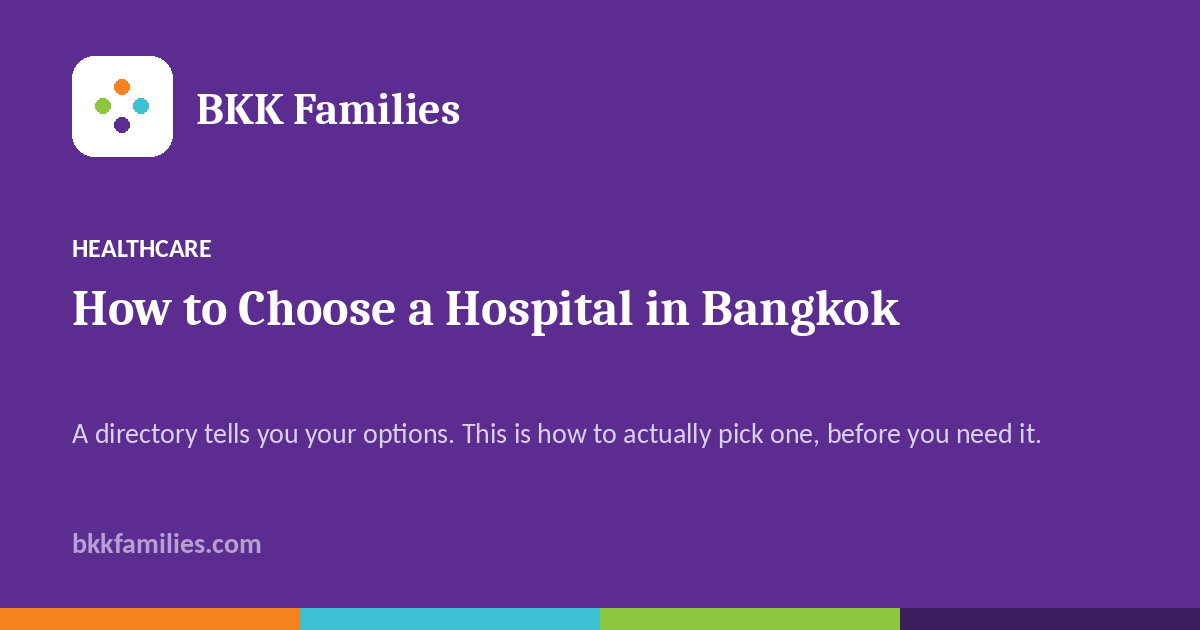
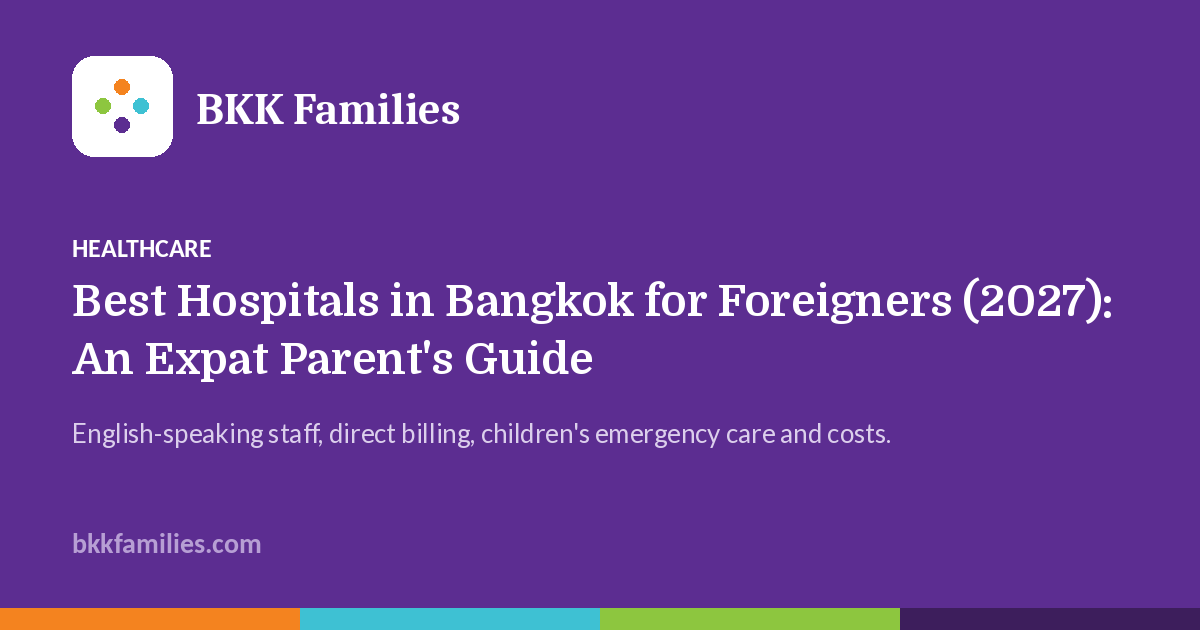
Hospitals article retargeted at "best hospital in Bangkok for foreigners"
New title (2027 expat parent's guide), meta description, excerpt, keywords
and updated date. New sections on English-speaking staff and international
desks, direct billing, 24-hour paediatric emergency care and published
costs, all from the site's own hospital, insurance and dental data. Hospital
list expanded to 12, FAQ rewritten for the target searches, share card
regenerated with the new title. Linked from the healthcare hub (Start here),
every hospital page, the hospitals directory and the paediatrics page.

Claude-Session: https://claude.ai/code/session_01AMgL5yfKE3jiVjviK9vpyY

Changed region(s): [[0.0617, 0.4524, 0.925, 0.6032], [0.0617, 0.6635, 0.8633, 0.7238]]

diff --git a/src/lib/articles.ts b/src/lib/articles.ts
@@ -1027,68 +1027,107 @@ export const ARTICLES: Article[] = [
   },
   {
     slug: "top-5-hospitals-in-bangkok",
-    title: "How to Choose a Hospital in Bangkok When You Have Just Arrived",
+    title: "Best Hospitals in Bangkok for Foreigners (2027): An Expat Parent's Guide",
     category: "Healthcare",
     date: "2026-09-14",
+    updated: "2026-11-09",
     metaDescription:
-      "A directory tells you what your options are. This answers the harder question: how do you actually pick one, which hospitals families name most, and the twenty minutes of homework to do before you need any of it.",
-    keywords: ["choosing a hospital Bangkok", "best hospital Bangkok families", "Bangkok hospital expat", "paediatric hospital Bangkok", "Samitivej Bumrungrad BNH comparison", "Bangkok hospital direct billing", "children's emergency Bangkok", "new to Bangkok healthcare"],
+      "Bangkok's best hospitals for foreigners, compared for expat families: English-speaking staff, direct billing, 24-hour children's emergency care and prices.",
+    keywords: ["best hospital in Bangkok for foreigners", "best hospital in Bangkok", "top hospitals in Bangkok", "top 10 hospitals in Bangkok", "English speaking hospital Bangkok", "Bangkok hospital direct billing", "paediatric emergency Bangkok", "Bangkok hospital costs", "international hospital Bangkok expat", "Samitivej Bumrungrad comparison"],
     excerpt:
-      "The private hospital system here is genuinely excellent, which is a lovely problem to have and no help at all when you are three weeks off the plane and trying to pick one. Here is how to narrow it down, and the homework worth doing before you need any of it.",
+      "The best hospitals in Bangkok for foreigners, and what each one is actually good for. English-speaking staff, insurance direct billing, 24-hour children's emergency care, published prices, and how to choose before you need one.",
     headings: [
-      { beforeParagraph: 2, text: "You are choosing two things, not one" },
-      { beforeParagraph: 6, text: "Three questions that narrow it fast" },
-      { beforeParagraph: 11, text: "The five families name most, and what each is for" },
-      { beforeParagraph: 18, text: "The emergency question people get wrong" },
-      { beforeParagraph: 22, text: "Twenty minutes of homework, now rather than later" },
+      { beforeParagraph: 2, text: "The best hospitals in Bangkok for foreigners, and what each is for" },
+      { beforeParagraph: 14, text: "English-speaking staff and international patient desks" },
+      { beforeParagraph: 17, text: "Insurance and direct billing" },
+      { beforeParagraph: 20, text: "24-hour paediatric emergency care" },
+      { beforeParagraph: 24, text: "What hospitals in Bangkok cost" },
+      { beforeParagraph: 29, text: "How to choose: two hospitals and three questions" },
+      { beforeParagraph: 37, text: "Twenty minutes of homework, now rather than later" },
     ],
     relatedFacilities: [
       { name: "Samitivej Sukhumvit Hospital", slug: "samitivej-sukhumvit-hospital" },
       { name: "Bumrungrad International Hospital", slug: "bumrungrad-international-hospital" },
-      { name: "BNH Hospital", slug: "bnh-hospital" },
       { name: "Bangkok Hospital (Soi Soonvijai)", slug: "bangkok-hospital-headquarters" },
-      { name: "Praram 9 Hospital", slug: "praram-9-hospital" },
+      { name: "BNH Hospital", slug: "bnh-hospital" },
+      { name: "MedPark Hospital", slug: "medpark-hospital" },
       { name: "Samitivej International Children's Hospital", slug: "samitivej-international-childrens-hospital" },
+      { name: "Vejthani Hospital", slug: "vejthani-hospital" },
+      { name: "Praram 9 Hospital", slug: "praram-9-hospital" },
+      { name: "Vibhavadi Hospital", slug: "vibhavadi-hospital" },
+      { name: "Phyathai 2 Hospital", slug: "phyathai-2-hospital" },
       { name: "Saint Louis Hospital", slug: "saint-louis-hospital" },
       { name: "Camillian Hospital", slug: "camillian-hospital" },
+      { name: "Queen Sirikit National Institute of Child Health", slug: "queen-sirikit-national-institute-of-child-health" },
     ],
     body: [
-      "Bangkok's private hospitals are one of the genuinely good reasons to raise a family here. Several are internationally accredited, English-speaking paediatric care is normal rather than a premium extra, and the whole thing costs a fraction of private care in most of the countries families arrive from.",
-      "Which is a lovely problem to have, and absolutely no help when you are three weeks off the plane with a feverish child and a list of names that all sound equally plausible. Our [hospital directory](/healthcare/hospitals) will tell you what your options are. This is about how to actually pick between them.",
+      "The short answer first. For most foreign families, the best hospitals in Bangkok are [Samitivej Sukhumvit](/healthcare/hospitals/samitivej-sukhumvit-hospital), [Bumrungrad](/healthcare/hospitals/bumrungrad-international-hospital) and [Bangkok Hospital](/healthcare/hospitals/bangkok-hospital-headquarters), with [BNH](/healthcare/hospitals/bnh-hospital) and [MedPark](/healthcare/hospitals/medpark-hospital) close behind, and [Samitivej's children's hospital](/healthcare/hospitals/samitivej-international-childrens-hospital) at Srinakarin for a seriously ill child. All six offer care in English and settle directly with most international insurers. Which one is best for your family comes down to where you live, what your insurance covers and how old your children are.",
+      "Bangkok's private hospitals are one of the genuinely good reasons to raise a family here. Several are internationally accredited, English-speaking paediatric care is normal rather than a premium extra, and the whole thing costs a fraction of private care in most of the countries families arrive from. That is a lovely problem to have, and no help at all when you are three weeks off the plane with a feverish child and a list of names that all sound equally plausible. Our [hospital directory](/healthcare/hospitals) tells you what your options are. This guide is about how to choose between them.",
+      "These are the hospitals that come up most often in our community, with what each is actually good for rather than what its brochure says. The first seven operate at international hospital level. The rest are good Thai private hospitals that cost noticeably less.",
+      "[Samitivej Sukhumvit](/healthcare/hospitals/samitivej-sukhumvit-hospital) is the default for the international school corridor, and the hospital named most often in our Facebook group. It sits in the middle of where expat families live, it is JCI accredited, and it has built its reputation on children's and women's health, with paediatricians who see children in English, Japanese and Arabic and walk-in appointments that usually work. Convenience is the product and it is priced accordingly, though it still undercuts Bumrungrad for routine visits.",
+      "[Bumrungrad](/healthcare/hospitals/bumrungrad-international-hospital) is the one everyone has heard of and the most practised in the country at handling foreign patients: interpreters in dozens of languages, a dedicated international floor, and machinery that simply works. It is also the most expensive of the mainstream options, and families who use it for everything tend to notice how much a routine paediatric visit costs compared to the alternatives.",
+      "[Bangkok Hospital](/healthcare/hospitals/bangkok-hospital-headquarters) on Soi Soonvijai is the flagship of the largest private hospital group in Thailand and a genuine full-service hospital, JCI accredited, with combined paediatric and neonatal intensive care running around the clock plus ground and air emergency transport. The campus is large and first visits involve more walking than you expect.",
+      "[BNH](/healthcare/hospitals/bnh-hospital) is small, personal and the oldest private hospital in Thailand. It is best known among expat families for maternity, where the draw is continuity, the same obstetrician throughout. For families in Silom and Sathorn it is also just the nearest good option. Being small cuts both ways: the experience is better, the range of paediatric sub-specialists is narrower.",
+      "[MedPark](/healthcare/hospitals/medpark-hospital) in Khlong Toei is the newest of the big private hospitals and the most open about money, publishing its delivery packages as a plain price list. The building is new enough that everything still works.",
+      "[Samitivej International Children's Hospital](/healthcare/hospitals/samitivej-international-childrens-hospital) at the Srinakarin campus opened in March 2025 as Thailand's only private hospital built entirely for children, with a 24-hour paediatric emergency department, PICU and NICU. For a seriously ill child it is the most capable private facility in the city. The catch is the drive, which from most of the school corridor is a long one.",
+      "[Vejthani](/healthcare/hospitals/vejthani-hospital) on Lat Phrao is JCI accredited, with a serious international patient operation and prices that generally are not international-hospital prices. For families in the Lat Phrao, Bang Kapi and Ramkhamhaeng corridor it is the nearest hospital of this standard by a wide margin. From Sukhumvit or Sathorn it is too far for anything routine.",
+      "[Praram 9](/healthcare/hospitals/praram-9-hospital) is the sensible mid-market option for families in the Rama 9 and Ratchada corridor, with an international desk, a dedicated expat phone line and a free shuttle from MRT Phetchaburi. Less English signage than the Sukhumvit hospitals, noticeably lower bills.",
+      "[Vibhavadi](/healthcare/hospitals/vibhavadi-hospital) in Chatuchak has the strongest children's department in our directory outside the international and dedicated children's hospitals: paediatric sub-specialists, its own paediatric pharmacy, and school admission health checks, at noticeably lower prices.",
+      "[Phyathai 2](/healthcare/hospitals/phyathai-2-hospital) near Victory Monument is the practical choice for families in Ari and the northern stretch of the BTS, with a full range of specialties at prices well below the Sukhumvit hospitals. It is busy, and the English depends on which department you land in.",
+      "Worth knowing beyond these: [Saint Louis](/healthcare/hospitals/saint-louis-hospital) on South Sathorn is a solid budget option for routine visits, and [Camillian](/healthcare/hospitals/camillian-hospital) is a small hospital right in Thong Lor, which makes it the closest option to a large slice of the expat population.",
+      "Every hospital in this guide offers care in English. What differs is how far the English goes beyond the consulting room: the reception desk, the pharmacy, the billing office, the nurse who calls back with test results. That is the part that decides whether a visit feels easy or exhausting when you have no Thai.",
+      "[Bumrungrad](/healthcare/hospitals/bumrungrad-international-hospital) is the benchmark, with interpreters in dozens of languages and a dedicated international floor. [Vejthani](/healthcare/hospitals/vejthani-hospital) runs hotline support in nine languages and has a desk at Suvarnabhumi airport. [Bangkok Hospital](/healthcare/hospitals/bangkok-hospital-headquarters) works in English, Arabic, Japanese and Mandarin, and Samitivej's paediatricians see children in English, Japanese and Arabic.",
+      "At the mid-market hospitals the English is good in the consulting room and patchier elsewhere. Praram 9 has an international desk and a dedicated line for foreign patients, which is the shortcut worth using rather than the main switchboard. If English everywhere matters to you, and in your first year it probably should, the international hospitals are worth what they cost.",
+      "Direct billing means the hospital settles with your insurer, so you sign a form and leave. Without it, you pay the bill yourself and claim it back over the following weeks, which for a hospital admission can mean a very large number on a credit card.",
+      "The international hospitals in this guide, Bumrungrad, Samitivej, Bangkok Hospital, BNH, MedPark and Vejthani, settle directly with most international insurers through their international patient desks. Mid-market Thai private hospitals such as Praram 9, Phyathai 2 and Vibhavadi work with a shorter panel. Public hospitals, including the national children's hospital, do not direct bill at all.",
+      "Two checks are worth making before you need them. First, confirm your specific policy with your specific hospital, because an insurer appearing on a hospital's list does not always mean every product from that insurer. Second, if you have a local Thai plan, look at the daily room allowance. On some plans it starts at 1,500 baht a night, and 3,000 baht a night is unlikely to cover a standard room at the big international hospitals, so the plan you pick quietly decides where you can stay without topping up. Our [health insurance guide](/healthcare/insurance) compares the main plans.",
+      "Here is the distinction almost nobody makes when they arrive, and it is the one that matters most at 2am. Every hospital in this guide runs a 24-hour emergency department and will see a child. But there is a real difference between a general emergency department that also sees children and a paediatric emergency department staffed by paediatricians. Most Bangkok hospitals are the first kind. That is usually fine. It is less fine for a very sick small child.",
+      "In Bangkok the dedicated children's emergency departments are at [Samitivej's children's hospital](/healthcare/hospitals/samitivej-international-childrens-hospital) at the Srinakarin campus and at the [national children's hospital](/healthcare/hospitals/queen-sirikit-national-institute-of-child-health) in Ratchathewi, both open 24 hours. Note that the Samitivej children's hospital is at Srinakarin, not on Sukhumvit, which is a long drive from most of the school corridor and exactly the sort of thing to know in advance rather than discover while driving.",
+      "Several other hospitals are strong for children without a separate children's emergency department. [Bangkok Hospital](/healthcare/hospitals/bangkok-hospital-headquarters) runs combined paediatric and neonatal intensive care around the clock, though out of hours children come in through the general emergency department, as they do at Bumrungrad. [Vibhavadi](/healthcare/hospitals/vibhavadi-hospital) keeps paediatricians on call 24 hours, with paediatric outpatients open 7am to 9pm every day. Our [paediatrics page](/healthcare/paediatrics) shows which hospital has what.",
+      "For anything genuinely critical, the national ambulance number is **1669**. It is free and works from any phone. Save your own hospital's ambulance line as well, since a private ambulance takes you to that hospital rather than to the nearest one.",
+      "Most hospitals do not publish a price for a routine visit, and what you pay depends on what the doctor orders, so be wary of any article that gives you a single number. What we can tell you is how the hospitals compare with each other, and what the published prices say.",
+      "The clearest published prices are for having a baby. Packages for a normal birth, as published by the hospitals and checked in September 2026, start at 48,900 baht at Nakornthon, 63,800 at Vichaiyut, 110,000 at Samitivej Sukhumvit, 110,400 at Bangkok Hospital, 118,690 at MedPark and 139,000 at Bumrungrad. At the top of the published ranges, normally the caesarean packages, MedPark reaches 229,000 baht, Samitivej 230,000, Bumrungrad 249,000 and Bangkok Hospital 288,000. BNH quotes on enquiry. Our [maternity comparison](/healthcare/maternity) has every package and what each one leaves out.",
+      "The same pattern holds for everyday care. Bumrungrad is the most expensive of the mainstream options, and families who use it for everything find routine paediatric visits cost noticeably more than the same visit at a good local private hospital. Samitivej undercuts Bumrungrad for routine visits. Praram 9, Phyathai 2 and Vibhavadi are noticeably cheaper again, and Vejthani offers international accreditation at prices that generally are not international.",
+      "Dental care is the other place where published prices exist, and they are striking: a filling at 1,200 baht a surface and a molar root canal at 17,000 baht at one of Bangkok's international dental centres. The full numbers are in our [guide to dental costs](/blog/dental-health-for-families-in-bangkok).",
+      "Before any planned admission, ask the hospital for a cost estimate in writing and check it with your insurer before you go in.",
       "The first thing to get straight is that you are making two decisions, and people tend to collapse them into one.",
       "The everyday hospital is where you go for a sick child, a vaccination, a checkup, a rash you want looked at. What matters here is that it is close, that getting seen is easy, and that the cost of a routine visit does not make you hesitate before going. You will use this place dozens of times.",
       "The emergency hospital is where you go at 2am, or where you would want to end up if something serious happened. What matters here is capability, not convenience, and it may well not be the same building.",
-      "Plenty of families end up with a small hospital ten minutes away for the ordinary things and a large one further out for anything that frightens them. That is a sensible arrangement, not an indecisive one.",
+      "Plenty of families end up with a smaller hospital ten minutes away for the ordinary things and a large one further out for anything that frightens them. That is a sensible arrangement, not an indecisive one.",
       "**How far is it, in the traffic you will actually be in?** Look at the journey on a weekday at 6pm, not on a Sunday morning. A hospital that is fifteen minutes away in theory and fifty in practice is not a fifteen minute hospital. This single question eliminates more options than anything else, and it should.",
-      "**Will your insurance settle directly with them?** Direct billing means you sign a form and leave. No direct billing means you pay a potentially large bill and reclaim it over the following weeks. The big international hospitals settle with most international insurers; mid-market Thai private hospitals work with a shorter panel; small clinics generally do not. Confirm your specific policy with the specific hospital, because an insurer appearing on a list does not always mean every product from that insurer.",
-      "**How much English do you need right now?** This is the question people feel awkward asking and it is entirely legitimate. In your first year, with a sick child and no Thai, the international hospitals are worth what they cost, and a large part of what you are paying for is that somebody will explain things to you properly. Two years in, when you have found your feet, a good Thai private hospital at half the price often starts to look sensible for routine visits.",
-      "Those three questions usually leave two or three realistic candidates rather than twenty.",
-      "One more, if it applies: if anyone in the family has an ongoing condition, pick the hospital where that specialty is strong and let the rest follow.",
-      "These are the names that come up most often in our community, with what each is actually good for rather than what its brochure says.",
-      "[Samitivej Sukhumvit](/healthcare/hospitals/samitivej-sukhumvit-hospital) is the default for the international school corridor, and deservedly so. It sits in the middle of where expat families live, it has built its reputation specifically on children's and women's health, and walk-in paediatric appointments generally work. Convenience is the product and it is priced accordingly, though it still undercuts Bumrungrad for routine visits.",
-      "[Bumrungrad](/healthcare/hospitals/bumrungrad-international-hospital) is the one everyone has heard of and the most practised in the world at handling foreign patients. Interpreters, an international floor, machinery that simply works. It is also the most expensive of the mainstream options, and families who use it for everything tend to notice how much a routine paediatric visit costs compared to the alternatives.",
-      "[BNH](/healthcare/hospitals/bnh-hospital) is small, personal and the oldest private hospital in Thailand. It is best known among expat families for maternity, where the draw is continuity, the same obstetrician throughout. For families in Silom and Sathorn it is also just the nearest good option. Being small cuts both ways: the experience is better, the range of sub-specialists is narrower.",
-      "[Bangkok Hospital](/healthcare/hospitals/bangkok-hospital-headquarters) on Soi Soonvijai is a genuine full-service hospital with combined paediatric and neonatal intensive care running around the clock, plus ground and air emergency transport. The campus is large and first visits involve more walking than you expect.",
-      "[Praram 9](/healthcare/hospitals/praram-9-hospital) is the sensible mid-market option for families in the Rama 9 and Ratchada corridor, with an international desk and a dedicated expat phone line. Less English signage than the Sukhumvit hospitals, noticeably lower bills.",
-      "Worth knowing beyond the usual five: [Saint Louis](/healthcare/hospitals/saint-louis-hospital) on South Sathorn is a solid budget option for routine visits, and [Camillian](/healthcare/hospitals/camillian-hospital) is a small hospital right in Thong Lor, which makes it the closest option to a large slice of the expat population.",
-      "Here is the distinction almost nobody makes when they arrive, and it is the one that matters most at 2am.",
-      "There is a real difference between a hospital that sees children in its general emergency department and a hospital with a paediatric emergency department staffed by paediatricians. Most Bangkok hospitals are the first kind. That is usually fine. It is less fine for a very sick small child.",
-      "In Bangkok the dedicated children's emergency services are at [Samitivej's children's hospital](/healthcare/hospitals/samitivej-international-childrens-hospital) at the Srinakarin campus, which opened in 2025 as Thailand's only private hospital built entirely for children, and at the [national children's hospital](/healthcare/hospitals/queen-sirikit-national-institute-of-child-health) in Ratchathewi. Note that the Samitivej children's hospital is at Srinakarin, not on Sukhumvit, which is a long drive from most of the school corridor and exactly the sort of thing to know in advance rather than discover while driving.",
-      "For anything genuinely critical, the national ambulance number is **1669**. It is free and works from any phone.",
+      "**Will your insurance settle directly with them?** This is the difference between signing a form and paying a large bill yourself, so check it for your policy, not just your insurer.",
+      "**How much English do you need right now?** This is the question people feel awkward asking and it is entirely legitimate. In your first year, with a sick child and no Thai, the international hospitals are worth what they cost, and a large part of what you are paying for is that somebody will explain things to you properly. Two years in, when you have found your feet, a good Thai private hospital at a much lower price often starts to look sensible for routine visits.",
+      "Those three questions usually leave two or three realistic candidates rather than twenty. One more, if it applies: if anyone in the family has an ongoing condition, pick the hospital where that specialty is strong and let the rest follow.",
       "Do this on a quiet evening rather than in a crisis, because all of it is useless the moment you actually need it.",
-      "Pick your everyday hospital and your emergency hospital, and check the drive to each at a bad hour. Put both numbers in your phone, including the hospital's own ambulance line if it publishes one, since a private ambulance from your hospital takes you to that hospital rather than to the nearest.",
+      "Pick your everyday hospital and your emergency hospital, and check the drive to each at a bad hour. Put both numbers in your phone, including the hospital's own ambulance line if it publishes one.",
       "Call your insurer and confirm, for those two specific hospitals, whether they direct bill. Write down what they tell you.",
       "Find a paediatrician rather than relying on whoever is free. Ask whether they do same-day sick visits, and what happens when they are away.",
       "Then forget about it. The point of the twenty minutes is that you never have to think about any of this again until the night you are glad you did.",
     ],
     faq: [
       {
-        question: "Which hospital is best for families in Bangkok?",
-        answer: "There is no single answer, and the useful reframe is that you are choosing two hospitals: an everyday one that is close and easy, and an emergency one chosen for capability rather than convenience. They are often not the same building. Samitivej Sukhumvit is the most common everyday choice for the international school corridor, while Bangkok Hospital and Samitivej's children's hospital at Srinakarin carry the most paediatric intensive care capability.",
+        question: "What is the best hospital in Bangkok for foreigners?",
+        answer: "For most foreign families it is one of the international hospitals: Samitivej Sukhumvit, Bumrungrad, Bangkok Hospital, BNH or MedPark. All five offer care in English and settle directly with most international insurers. Bumrungrad has the most practised international patient operation in the country and is the most expensive. Samitivej Sukhumvit is the one families in the Sukhumvit international school corridor use most. For a seriously ill child, Samitivej's children's hospital at Srinakarin has the most capable private paediatric emergency department in the city.",
       },
       {
-        question: "Where do I take a sick child at 2am in Bangkok?",
-        answer: "Any 24-hour hospital will see a child, but there is a real difference between a general emergency department that also sees children and a paediatric emergency department staffed by paediatricians. In Bangkok the dedicated children's emergency services are at Samitivej's children's hospital at the Srinakarin campus and the national children's hospital in Ratchathewi. Note Srinakarin is a long drive from Sukhumvit. For anything critical, call 1669.",
+        question: "What are the top 10 hospitals in Bangkok for expat families?",
+        answer: "The ten we would put on the list are Samitivej Sukhumvit, Bumrungrad, Bangkok Hospital, BNH, MedPark, Samitivej International Children's Hospital, Vejthani, Praram 9, Vibhavadi and Phyathai 2. The first seven operate at international hospital level, and the last three are good Thai private hospitals at lower prices. Saint Louis and Camillian are also worth knowing for routine visits.",
+      },
+      {
+        question: "Which Bangkok hospitals have English-speaking staff?",
+        answer: "All the main private hospitals offer care in English. The difference is how far it goes beyond the doctor. Bumrungrad has interpreters in dozens of languages and an international floor, Vejthani runs hotline support in nine languages, and Bangkok Hospital and Samitivej both work in several languages besides English. At mid-market hospitals such as Praram 9 and Phyathai 2 the English is good with the doctor and patchier at reception, pharmacy and billing.",
+      },
+      {
+        question: "Which hospitals in Bangkok direct bill international insurance?",
+        answer: "Bumrungrad, Samitivej, Bangkok Hospital, BNH, MedPark and Vejthani settle directly with most international insurers through their international patient desks. Mid-market private hospitals such as Praram 9, Phyathai 2 and Vibhavadi work with a shorter panel, and public hospitals do not direct bill. Always confirm your specific policy with the specific hospital before you need it.",
+      },
+      {
+        question: "Which hospitals in Bangkok have 24-hour paediatric emergency care?",
+        answer: "Every major hospital in Bangkok has a 24-hour emergency department that will see children. The dedicated children's emergency departments, staffed by paediatricians around the clock, are at Samitivej's children's hospital at the Srinakarin campus and the national children's hospital in Ratchathewi. Bangkok Hospital runs 24-hour paediatric and neonatal intensive care, and Vibhavadi keeps paediatricians on call 24 hours. For anything critical, call 1669.",
+      },
+      {
+        question: "How much do hospitals in Bangkok cost?",
+        answer: "Most hospitals do not publish a price for a routine visit, because the bill depends on what the doctor orders. The clearest published prices are delivery packages: as checked in September 2026, a normal birth starts at 48,900 baht at Nakornthon and 110,000 to 139,000 baht at the international hospitals, with caesarean packages reaching 229,000 to 288,000 baht. Bumrungrad is the most expensive of the mainstream hospitals, and Thai private hospitals such as Praram 9 and Phyathai 2 cost noticeably less for routine care.",
       },
       {
         question: "Do I need an international hospital or will a Thai private hospital do?",

diff --git a/src/app/(en)/healthcare/page.tsx b/src/app/(en)/healthcare/page.tsx
@@ -27,7 +27,11 @@ export const metadata: Metadata = {
 const SITE = "https://www.bkkfamilies.com";
 
 /** Two pieces carry this section. Everything else is supporting. */
-const PILLARS = ["having-a-baby-in-bangkok", "bangkok-smog-season-kids"];
+const PILLARS = [
+  "top-5-hospitals-in-bangkok",
+  "having-a-baby-in-bangkok",
+  "bangkok-smog-season-kids",
+];
 
 const jsonLd = [
   {
@@ -204,11 +208,13 @@ export default function HealthcarePage() {
               Start here
             </h2>
             <div className="mt-6 grid gap-6 md:grid-cols-2">
-              {pillars.map((a) => (
+              {pillars.map((a, i) => (
                 <Link
                   key={a.slug}
                   href={`/blog/${a.slug}`}
-                  className="block rounded-xl border border-black/5 bg-white p-6 shadow-sm transition hover:-translate-y-0.5 hover:shadow-md"
+                  className={`block rounded-xl border border-black/5 bg-white p-6 shadow-sm transition hover:-translate-y-0.5 hover:shadow-md${
+                    i === 0 && pillars.length % 2 === 1 ? " md:col-span-2" : ""
+                  }`}
                 >
                   <h3 className="font-heading text-xl font-bold text-purple-dark">
                     {a.title}

diff --git a/src/app/(en)/healthcare/hospitals/[slug]/page.tsx b/src/app/(en)/healthcare/hospitals/[slug]/page.tsx
@@ -437,6 +437,20 @@ export default async function FacilityPage({
           )}
         </div>
 
+        {facility.type.endsWith("hospital") && (
+          <p className="mt-8 rounded-xl border border-teal/30 bg-teal-50 p-4 text-sm leading-relaxed text-neutral-700">
+            Comparing hospitals? See our guide to the{" "}
+            <Link
+              href="/blog/top-5-hospitals-in-bangkok"
+              className="font-semibold text-teal hover:underline"
+            >
+              best hospitals in Bangkok for foreigners
+            </Link>
+            , with English-speaking staff, direct billing, children&rsquo;s
+            emergency care and costs compared.
+          </p>
+        )}
+
         <p className="mt-8 rounded-xl border border-orange/30 bg-orange-50 p-4 text-sm leading-relaxed text-neutral-700">
           In an emergency, Thailand&rsquo;s national ambulance number is{" "}
           <strong className="font-bold">{EMERGENCY_NUMBER}</strong>.

diff --git a/src/app/(en)/healthcare/hospitals/page.tsx b/src/app/(en)/healthcare/hospitals/page.tsx
@@ -139,6 +139,18 @@ export default function HospitalsPage() {
           </p>
         </div>
 
+        <p className="mx-auto mt-4 max-w-3xl text-sm leading-relaxed text-neutral-700">
+          Not sure where to start? Our guide to the{" "}
+          <Link
+            href="/blog/top-5-hospitals-in-bangkok"
+            className="font-semibold text-teal hover:underline"
+          >
+            best hospitals in Bangkok for foreigners
+          </Link>{" "}
+          compares English-speaking staff, direct billing, children&rsquo;s
+          emergency care and costs.
+        </p>
+
         <div id="directory" className="mt-12 scroll-mt-28">
           <HealthcareDirectory />
         </div>

diff --git a/src/app/(en)/healthcare/paediatrics/page.tsx b/src/app/(en)/healthcare/paediatrics/page.tsx
@@ -230,7 +230,7 @@ export default function PaediatricsPage() {
             href="/blog/top-5-hospitals-in-bangkok"
             className="mt-4 inline-block rounded-full bg-orange px-6 py-3 text-sm font-semibold text-white transition hover:opacity-90"
           >
-            How to choose a hospital in Bangkok
+            Best hospitals in Bangkok for foreigners
           </Link>
         </div>
 
